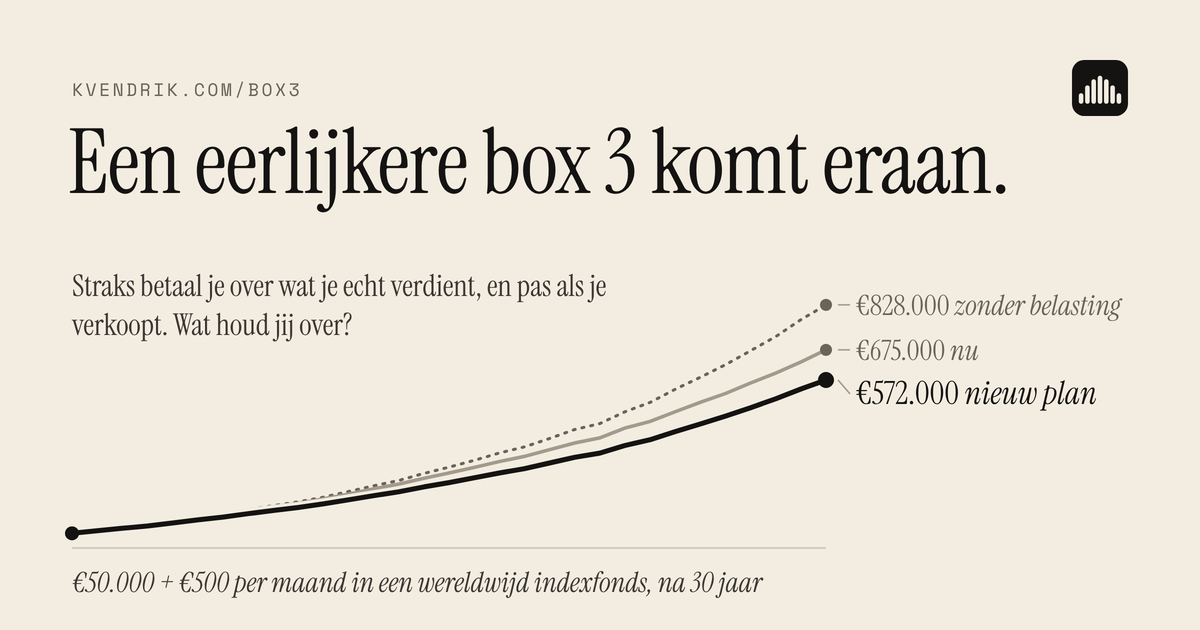
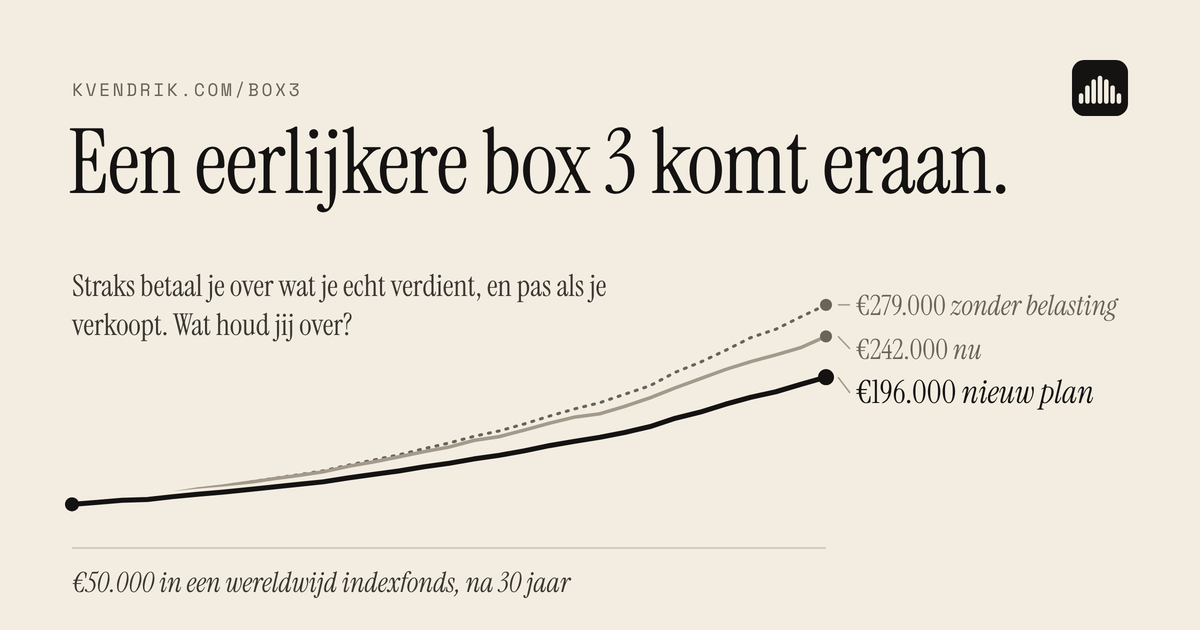
Box 3: example is a single €50.000 deposit
The headline numbers, the line above them and the share image now show
what €50.000 in a world index fund becomes after 30 years. The monthly
deposit slider starts at €0.

Claude-Session: https://claude.ai/code/session_01HLwVeDHAWFGSVX7sp8gDND

Changed region(s): [[0.0308, 0.4825, 0.925, 0.8746], [0.1233, 0.9048, 0.6475, 0.9651], [0.7092, 0.4524, 0.9558, 0.5127]]

diff --git a/public/box3/index.html b/public/box3/index.html
@@ -19,7 +19,7 @@
 <meta property="og:image" content="https://kvendrik.com/box3/og.png">
 <meta property="og:image:width" content="1200">
 <meta property="og:image:height" content="630">
-<meta property="og:image:alt" content="Een eerlijkere box 3 komt eraan. Na 30 jaar beleggen: € 828.000 zonder belasting, € 675.000 nu, € 572.000 met het nieuwe plan.">
+<meta property="og:image:alt" content="Een eerlijkere box 3 komt eraan. € 50.000 in een wereldwijd indexfonds wordt na 30 jaar € 279.000 zonder belasting, € 242.000 nu en € 196.000 met het nieuwe plan.">
 <meta name="twitter:card" content="summary_large_image">
 <meta name="twitter:site" content="@kvendrik">
 <link rel="preload" href="/bodega/fonts/AlloVariable.woff2" as="font" type="font/woff2" crossorigin>
@@ -168,7 +168,7 @@ sup a{font-family:var(--f-mono);font-size:10px;text-decoration:none;padding:0 1p
   <h2 class="fight tt" id="figTitle">Wat je na 30 jaar overhoudt met een wereldwijd indexfonds</h2>
   <div class="controls" id="controls">
     <div class="slider"><span class="slider-fill"></span><span class="sl"><label for="cStart">Start</label><button class="term q s" data-t="cStart" aria-label="Uitleg: start">?</button></span><output id="oStart"></output><input type="range" id="cStart" min="0" max="500000" step="5000" value="50000"></div>
-    <div class="slider"><span class="slider-fill"></span><span class="sl"><label for="cMonth">Per maand</label><button class="term q s" data-t="cMonth" aria-label="Uitleg: per maand">?</button></span><output id="oMonth"></output><input type="range" id="cMonth" min="0" max="3000" step="50" value="500"></div>
+    <div class="slider"><span class="slider-fill"></span><span class="sl"><label for="cMonth">Per maand</label><button class="term q s" data-t="cMonth" aria-label="Uitleg: per maand">?</button></span><output id="oMonth"></output><input type="range" id="cMonth" min="0" max="3000" step="50" value="0"></div>
     <div class="slider"><span class="slider-fill"></span><span class="sl"><label for="cYears">Looptijd</label><button class="term q s" data-t="cYears" aria-label="Uitleg: looptijd">?</button></span><output id="oYears"></output><input type="range" id="cYears" min="5" max="50" step="1" value="30"></div>
     <div class="slider"><span class="slider-fill"></span><span class="sl"><label for="cStock">Aandelen</label><button class="term q s" data-t="cStock" aria-label="Uitleg: aandelen">?</button></span><output id="oStock"></output><input type="range" id="cStock" min="0" max="100" step="10" value="100"></div>
     <div class="slider"><span class="slider-fill"></span><span class="sl"><label for="cFee">Kosten</label><button class="term q s" data-t="cFee" aria-label="Uitleg: kosten">?</button></span><output id="oFee"></output><input type="range" id="cFee" min="0" max="1.5" step="0.05" value="0.2"></div>
@@ -244,6 +244,7 @@ const TERMS={
   mc:["Niemand weet hoe de beurs gaat. Daarom spelen we 2.000 keer een mogelijke toekomst na, telkens met vijf echte jaren uit 1900–2025 achter elkaar, in een andere volgorde. Zo blijven een crash en het herstel erna bij elkaar. Elk plan rekent met precies dezelfde toekomsten, dus elk verschil komt alleen door de belasting.","Bron van de jaren","#s9"],
   data:["Wat de wereldbeurs en staatsobligaties echt deden in elk jaar sinds 1900, in guldens en euro’s, na Nederlandse inflatie. Dezelfde cijfers als op kvendrik.com/beleggen.","Macrohistory Database en MSCI","#s9"],
   aannames:["We nemen aan dat elk plan meteen ingaat, dat prijzen 2% per jaar stijgen, dat je fondsen 2% dividend en 3% rente uitkeren en dat je geen schulden of spaargeld in box 3 hebt. De bedragen van de plannen zijn nog niet definitief.","Eerste Kamer stelt stemming uit","#s3"],
+  naj:["De uitkomst in een gewone toekomst: van de 2.000 gesimuleerde toekomsten eindigt de helft hoger en de helft lager. In euro’s van nu, na belasting en verkoop.",null],
   midden:["De mediaan: de helft van de 2.000 toekomsten eindigt hoger, de helft lager. Niet het beste en niet het slechtste scenario.",null],
   slecht:["De streep loopt van een toekomst die slechter liep dan 9 van de 10 andere, tot een die beter liep dan 9 van de 10. Het blokje is de gewone uitkomst.",null],
   nu:["Een euro is over 30 jaar minder waard. We rekenen alles terug naar wat je er vandaag mee kunt kopen, met 2% inflatie per jaar: het doel van de ECB.","ECB","#s11"],
@@ -268,7 +269,7 @@ const PLAN={
   2:["Tweede Kamer, feb. 2026","",'Elk jaar 36% over je echte rendement, ook als je <button class="term" data-t="aanwas">niets verkoopt</button><sup><a href="#s2">2</a>,<a href="#s12">12</a></sup>.','<dt>Vrij</dt><dd><button class="term" data-t="hvr">€ 1.800</button> rendement p.p.</dd>'],
   3:["Niet aangenomen","",'Als aanwas, maar <button class="term" data-t="pro">49,5% boven € 78.426</button> rendement per jaar<sup><a href="#s14">14</a>,<a href="#s15">15</a></sup>.','<dt>Vrij</dt><dd>€ 1.800 rendement p.p.</dd>'],
   4:["Kabinet, nov. 2026","",'Bij verkoop, zoals het kabinet de novelle indiende: 36% over alles. De <button class="term" data-t="vvd">VVD-lijn</button><sup><a href="#s4">4</a>,<a href="#s16">16</a></sup>.','<dt>Vrij</dt><dd>€ 1.800 rendement p.p.</dd>']};
-const st={all:false,start:50000,month:500,years:30,stock:100,fee:0.2,p:1,sel:5,seed:20261125};
+const st={all:false,start:50000,month:0,years:30,stock:100,fee:0.2,p:1,sel:5,seed:20261125};
 const $=id=>document.getElementById(id);
 const eur=v=>{const a=Math.abs(v);if(a>=1e6)return "€ "+(v/1e6).toLocaleString("nl-NL",{maximumFractionDigits:a>=1e7?1:2})+" mln";const r=a>=1e5?1000:100;return "€ "+(Math.round(v/r)*r).toLocaleString("nl-NL")};
 const eurFull=v=>"€ "+Math.round(v).toLocaleString("nl-NL");
@@ -319,7 +320,7 @@ function fmtCtl(){
 }
 function text(){
   const {T,P,inleg,win}=R,m=s=>P[s][T][3],in_=inleg[T],low=Math.min(m(1),m(2),m(3)),sel=st.sel;
-    $("basis").innerHTML=`Wat je overhoudt als je ${eur(st.start)} inlegt, na ${T} jaar in een <button class="term" data-t="midden">gewone toekomst</button>:`;
+    $("basis").innerHTML=`Wat je overhoudt als je ${eur(st.start)} inlegt${st.month?` (plus ${eur(st.month)} per maand)`:""}, <button class="term" data-t="naj">na ${T} jaar</button>, in een <button class="term" data-t="wereld">wereldwijd indexfonds</button>`;
     $("stats").innerHTML=[[0,"Zonder belasting"],[1,"Nu"],[5,"Nieuw plan"]].map(([s,l])=>`<div><span class="mono">${l}</span><span class="n">${eur(m(s))}</span><span class="d">${s?(Math.round(R.cut[s]*100))+"% minder dan zonder belasting":"ter vergelijking"}</span></div>`).join("");
   initTerms();
   $("figTitle").innerHTML=`Wat je na ${T} jaar overhoudt met een <button class="term" data-t="wereld">wereldwijd indexfonds</button>`;initTerms();
